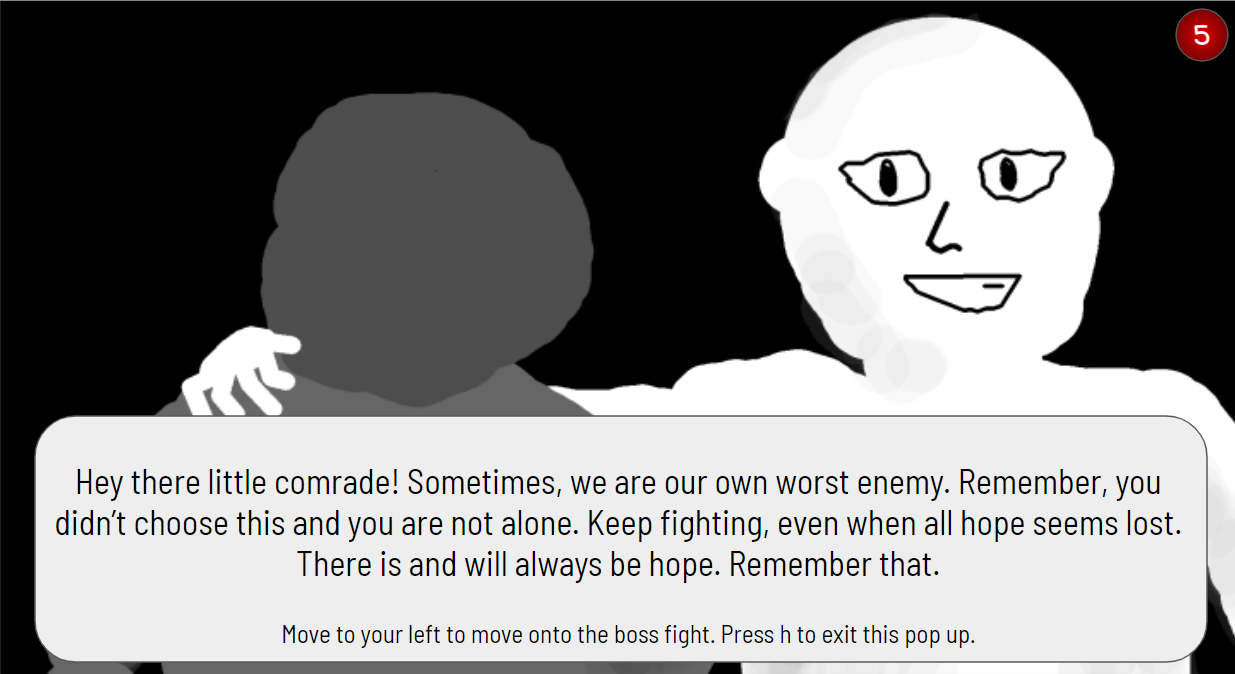
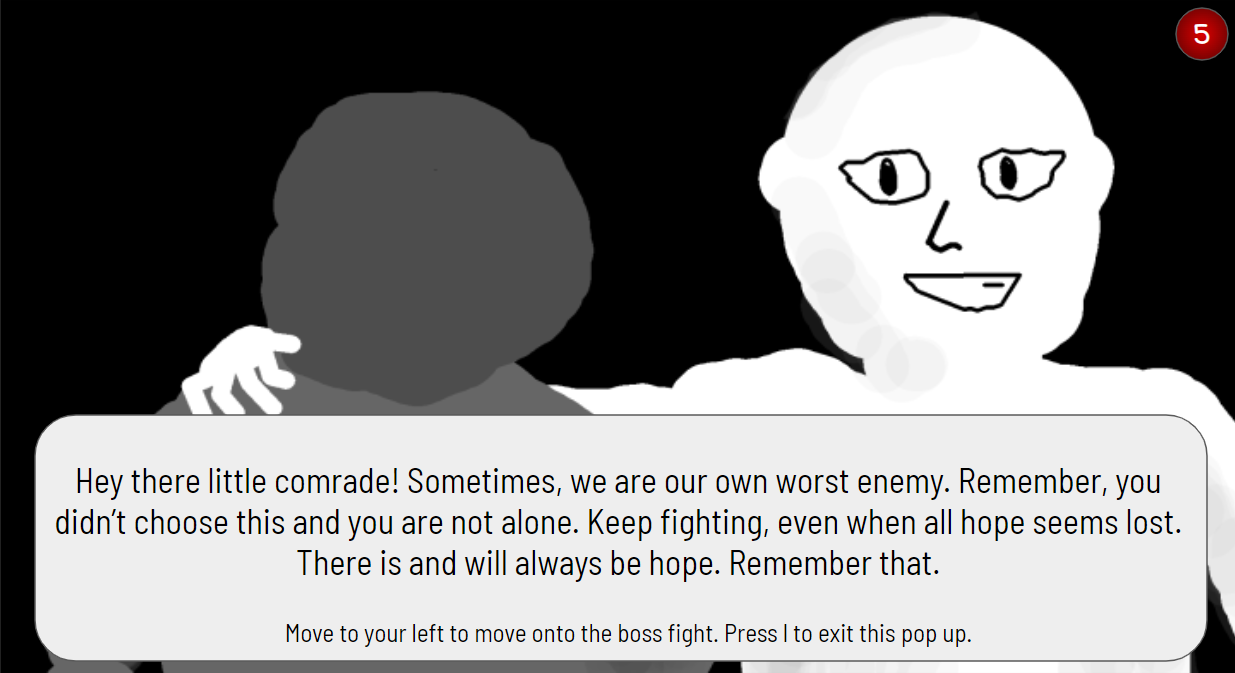
dump

diff --git a/src/FinalBoss.java b/src/FinalBoss.java
@@ -34,7 +34,7 @@ public class FinalBoss extends Boss {
      * @param HITBOX_SIZE Hitbox size
      */
     public FinalBoss(float x, float y, Vector HITBOX_SIZE, Image image) {
-        super(120, x, y, HITBOX_SIZE);
+        super(10, x, y, HITBOX_SIZE);
         sprite = image;
         createHitBox(pos, pos.add(HITBOX_SIZE));
         boss = new ImageView(sprite);
@@ -56,11 +56,9 @@ public class FinalBoss extends Boss {
      */
     public void update() {
         if (killed) {
-            boss.setVisible(false);
-            createHitBox(new Vector(0, 0), new Vector(0, 0));
+            clearTransformations();
             ((ImageView) boss).setImage(brotherScreen);
-            createHitBox(new Vector(0,0), new Vector(0,0));
-            pos = Game.toWorld(new Vector(25, 20));
+            pos = new Vector(0, 0);
             Game.player.getNode().setVisible(false);
             Player.playerMoving = false;
             if(Keyboard.isKeyDown(KeyCode.H)) {

diff --git a/src/EscapeCage.java b/src/EscapeCage.java
@@ -86,9 +86,11 @@ public class EscapeCage extends CollidableObject implements Interactable{
         if(brotherTip)
         {
             Image brotherTip = new Image("assets/doors/BrotherTips5.png");
+            clearTransformations();
             ((ImageView) node).setImage(brotherTip);
-            Game.player.getNode().setVisible(false);
+            pos = new Vector(0, 0);
             Player.playerMoving = false;
+            Game.player.getNode().setVisible(true);
             //teleport to final boss fight
             if(Keyboard.isKeyDown(KeyCode.L)) {
                 Game.player.getNode().setVisible(true);

diff --git a/src/Level3.java b/src/Level3.java
@@ -44,7 +44,7 @@ public class Level3 extends Level {
             textures.put("EscapeRoomClues:"+escapeRoomClues.getName().split("\\.")[0], new Image(escapeRoomClues.getPath()));
         }
         levelScreen = 0;
-        files = new String[]{"Level3_1.txt", "LevelBoss_2.txt"};
+        files = new String[]{ "Level3_1.txt", "LevelBoss_2.txt"};
         ldp = new LevelDataParser(textures);
     }
     /**

diff --git a/src/Boss1.java b/src/Boss1.java
@@ -27,7 +27,7 @@ public class Boss1 extends Boss {
      * @param HITBOX_SIZE Hitbox size
      */
     public Boss1(float x, float y, Vector HITBOX_SIZE, Image image){
-        super(10, x, y, HITBOX_SIZE);
+        super(150, x, y, HITBOX_SIZE);
         sprite = image;
         createHitBox(pos, pos.add(HITBOX_SIZE));
         boss = new ImageView(sprite);

diff --git a/src/Game.java b/src/Game.java
@@ -128,7 +128,7 @@ public class Game {
         levels[0] = new Level1();
         levels[1] = new Level2();
         levels[2] = new Level3();
-        levelNum = 2;
+        levelNum = 1;
         createLevel(levels[levelNum-1]);
         Player.playerMoving = true;
         // set the current scene
